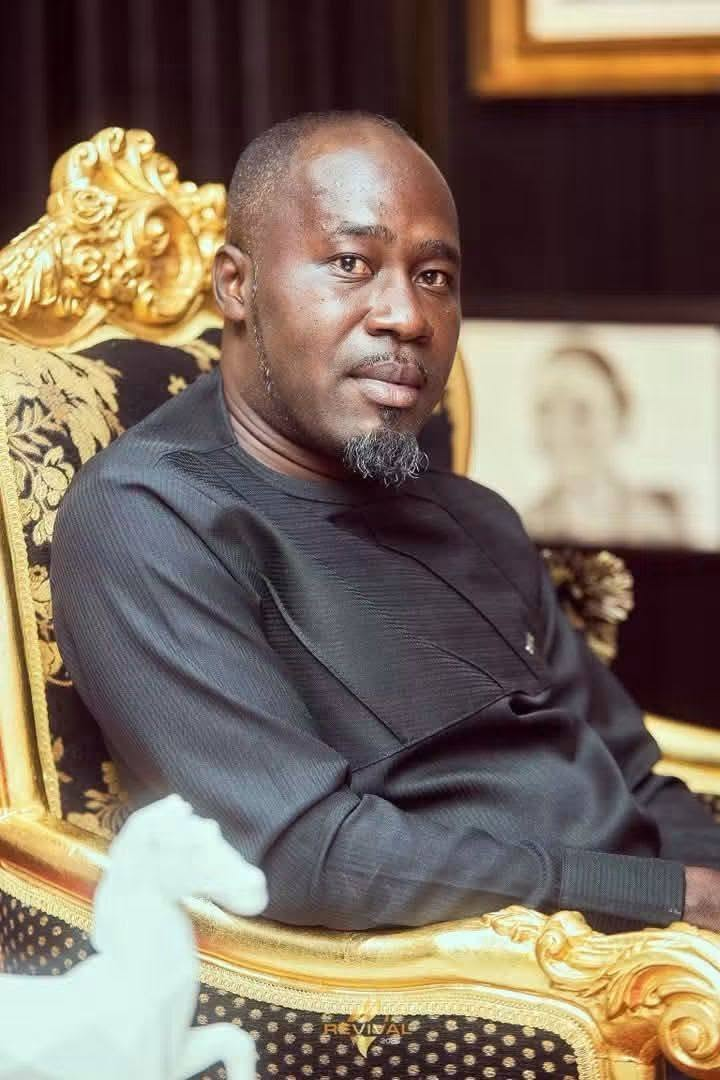
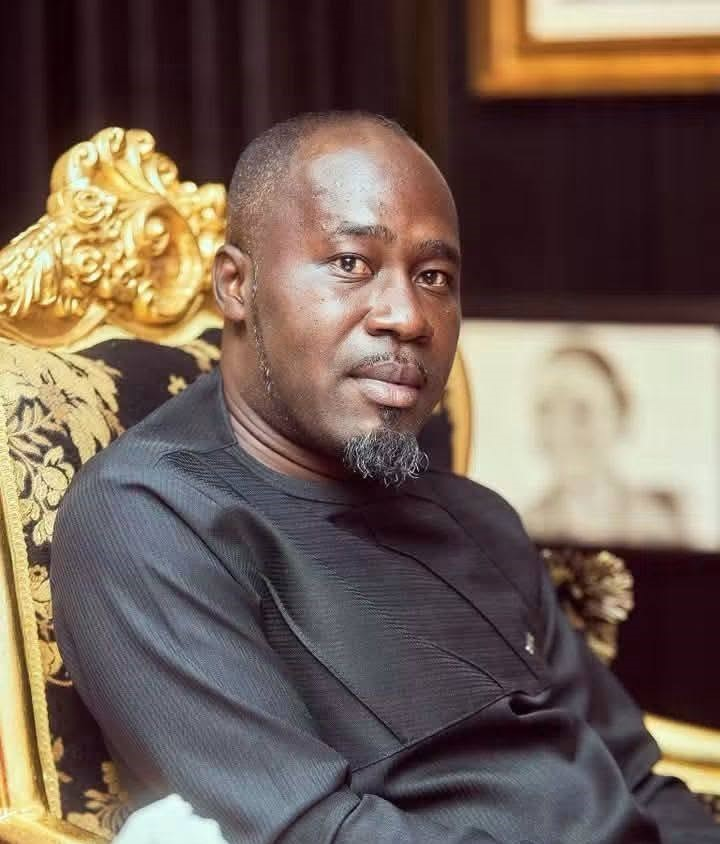
Update pastor profiles and portraits

diff --git a/src/App.js b/src/App.js
@@ -124,16 +124,16 @@ const createProfiles = (role, namedProfiles = [], minimumCount = 8) =>
 
 const pastors = createProfiles('Pastor', [
   { name: 'Prophet Job Aidoo', role: 'General Overseer', initials: 'JA', image: 'job1.jpg' },
-  { name: 'Apostle Jeffery Yankey', role: 'Apostle', initials: 'JY', image: 'instrumentalist/alex.jpg' },
-  { name: 'Pastor Wilfred Nii Armah', role: 'Pastor', initials: 'WA', image: 'choir/bene.jpg' },
-  { name: 'Pastor Nii Odai Mensah', role: 'Pastor', initials: 'NM', image: 'instrumentalist/joshua.jpg' },
+  { name: 'Apostle Edmund Yankey', role: 'Apostle', initials: 'JY', image: 'pastors/apostlej.jpg' },
+  { name: 'Pastor Wilfred Nii Armah', role: 'Pastor', initials: 'WA', image: 'pastors/wilfred.jpg' },
+  { name: 'Pastor Nii Odai Mensah', role: 'Pastor', initials: 'NM', image: 'pastors/nii.jpg' },
   { name: 'Pastor George Turkson', role: 'Pastor', initials: 'GT', image: 'pastors/turkson.jpg' },
-  { name: 'Pastor Annorhomah Quarm', role: 'Pastor', initials: 'AQ', image: 'choir/linda.jpg' },
-  { name: 'Elder Maccandles Mark', role: 'Elder', initials: 'MM', image: 'choir/roda.jpg' },
-  { name: 'Pastor Maxwell Kwofi Ampiah', role: 'Pastor', initials: 'MA' },
-  { name: 'Lady Pastor Serwaa Aidoo', role: 'Lady Pastor', initials: 'SA', image: 'serwaa1.jpg' },
+  { name: 'Pastor Annorhomah Quarm', role: 'Pastor', initials: 'AQ', image: 'pastors/kuarm.jpg' },
+  { name: 'Elder Maccandles Bekoe Jr', role: 'Elder', initials: 'MM', image: 'pastors/mark.jpg' },
+  { name: 'Pastor Maxwell Kwofi Ampiah', role: 'Pastor', initials: 'MA', image: 'pastors/max.jpg' },
+  { name: 'Lady Pastor Serwaa Aidoo', role: 'Lady Pastor', initials: 'SA', image: 'pastors/serwaa.jpg' },
   { name: 'Lady Pastor Patience Nii Armah', role: 'Lady Pastor', initials: 'PA' },
-  { name: 'Lady Pastor Dorcas', role: 'Lady Pastor', initials: 'PD' },
+  { name: 'Lady Pastor Dorcas', role: 'Lady Pastor', initials: 'PD', image: 'pastors/pastor_dorcas.jpg' },
 ], 11);
 
 const departmentProfiles = ministries.map((department) => ({
@@ -510,7 +510,7 @@ function LeadersSection() {
         <p className="eyebrow dark">People who serve</p>
         <h2 id="leaders-title">Our pastors</h2>
         <p className="section-intro">
-          Meet the pastors serving Living Dove Chapel. Names and photos marked for updating are temporary placeholders.
+          Meet the pastors serving Living Dove Chapel.
         </p>
       </div>
 

diff --git a/src/App.test.js b/src/App.test.js
@@ -70,12 +70,12 @@ test('renders the named pastors in the requested order and eight profiles for ev
 
   const pastorNames = [
     'Prophet Job Aidoo',
-    'Apostle Jeffery Yankey',
+    'Apostle Edmund Yankey',
     'Pastor Wilfred Nii Armah',
     'Pastor Nii Odai Mensah',
     'Pastor George Turkson',
     'Pastor Annorhomah Quarm',
-    'Elder Maccandles Mark',
+    'Elder Maccandles Bekoe Jr',
     'Pastor Maxwell Kwofi Ampiah',
     'Lady Pastor Serwaa Aidoo',
     'Lady Pastor Patience Nii Armah',
